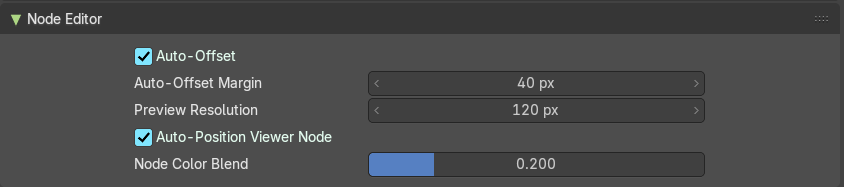
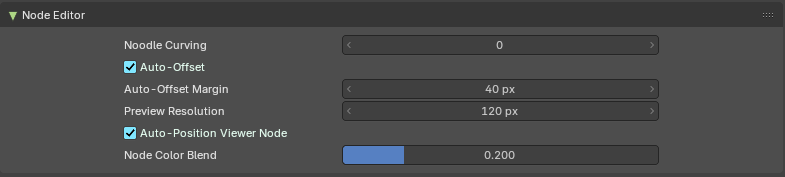
Preferences: Noodle Curving in the Node Editor panel #1725
Noodle Curving moved from the theme to Editing > Node Editor, and
Bforartists defaults to 0 (straight links). Adds the property with
straight and curved examples and refreshes the panel capture.

diff --git a/docs2/content/editors/preferences.md b/docs2/content/editors/preferences.md
@@ -783,6 +783,20 @@ Automatically close relevant character pairs when typing in the text editor.
 
 ![Node Editor](/docs2/images/editors/preferences/node-editor.png)
 
+#### Noodle Curving
+
+How curved the links (the "noodles") between nodes are drawn. The range is 0 to 10.
+
+Bforartists uses **0** by default, so links are **straight lines**. Straight links make it easy to follow where a link goes in a busy node tree. Raise the value if you prefer soft, curved links.
+
+![Noodle Curving at 0: straight links](/docs2/images/editors/preferences/noodle-curving-0.png)
+
+![Noodle Curving at 5: curved links](/docs2/images/editors/preferences/noodle-curving-5.png)
+
+The setting applies to every node editor: Shader, Geometry Nodes, Compositor and Texture nodes.
+
+> **Note:** Noodle Curving used to be a theme setting. It is a preference now, so a theme preset can no longer change it. Blender uses 4 by default.
+
 #### Auto Offset
 
 Use Auto Offset.
@@ -1544,7 +1558,7 @@ Customizes tracking marker colors, clip overlays, and annotation visuals for mot
 
 #### Node Editor
 
-Defines node socket colors, wire styles, backdrop shading, and node selection highlights.
+Defines node socket colors, wire colors, backdrop shading, and node selection highlights. How curved the wires are is set in the [Node Editor preferences](#noodle-curving).
 
 #### Nonlinear Animation
 
